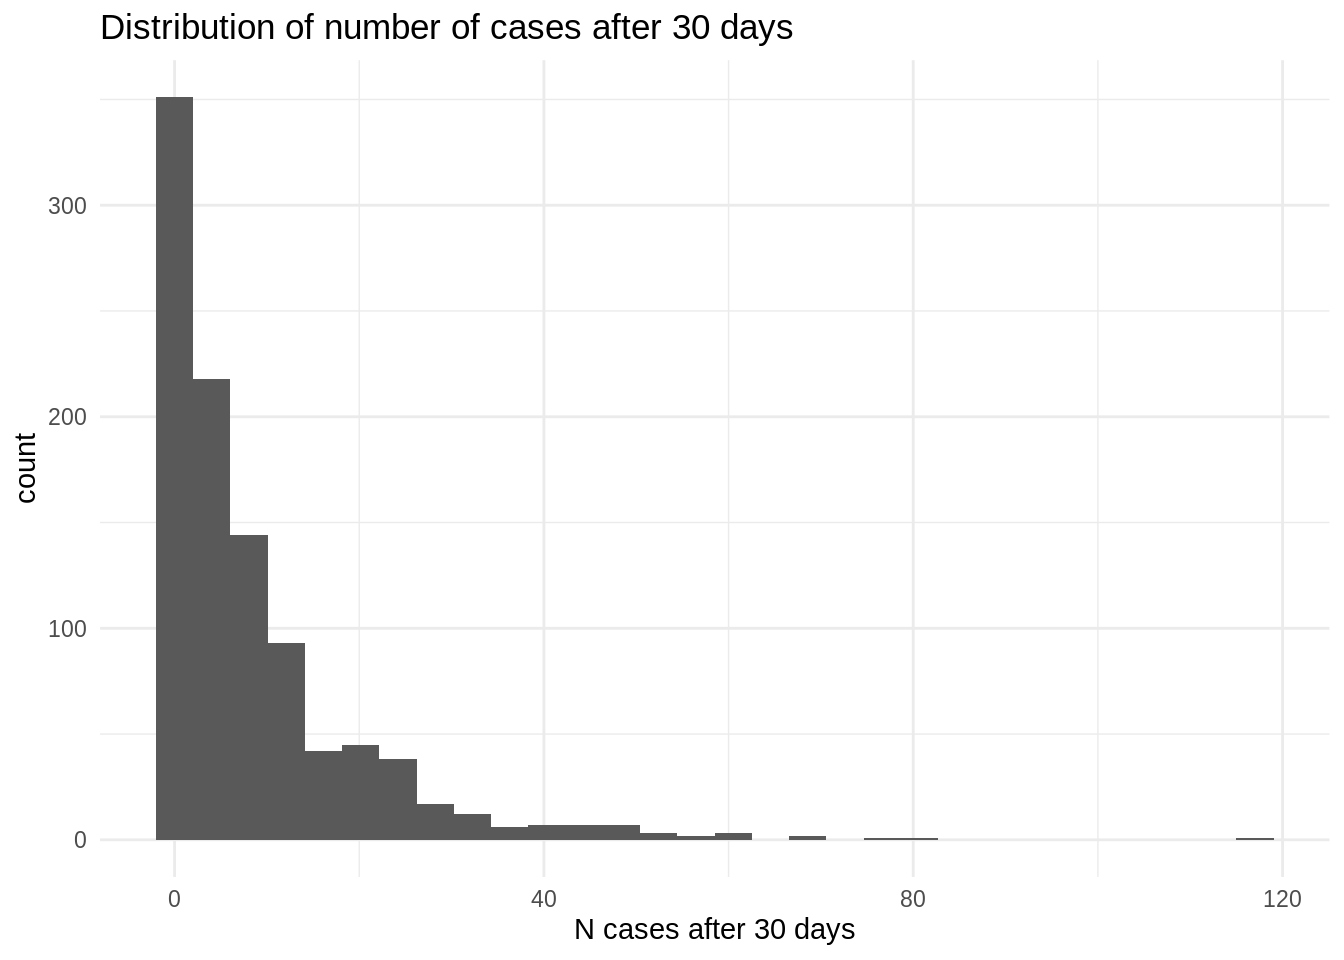
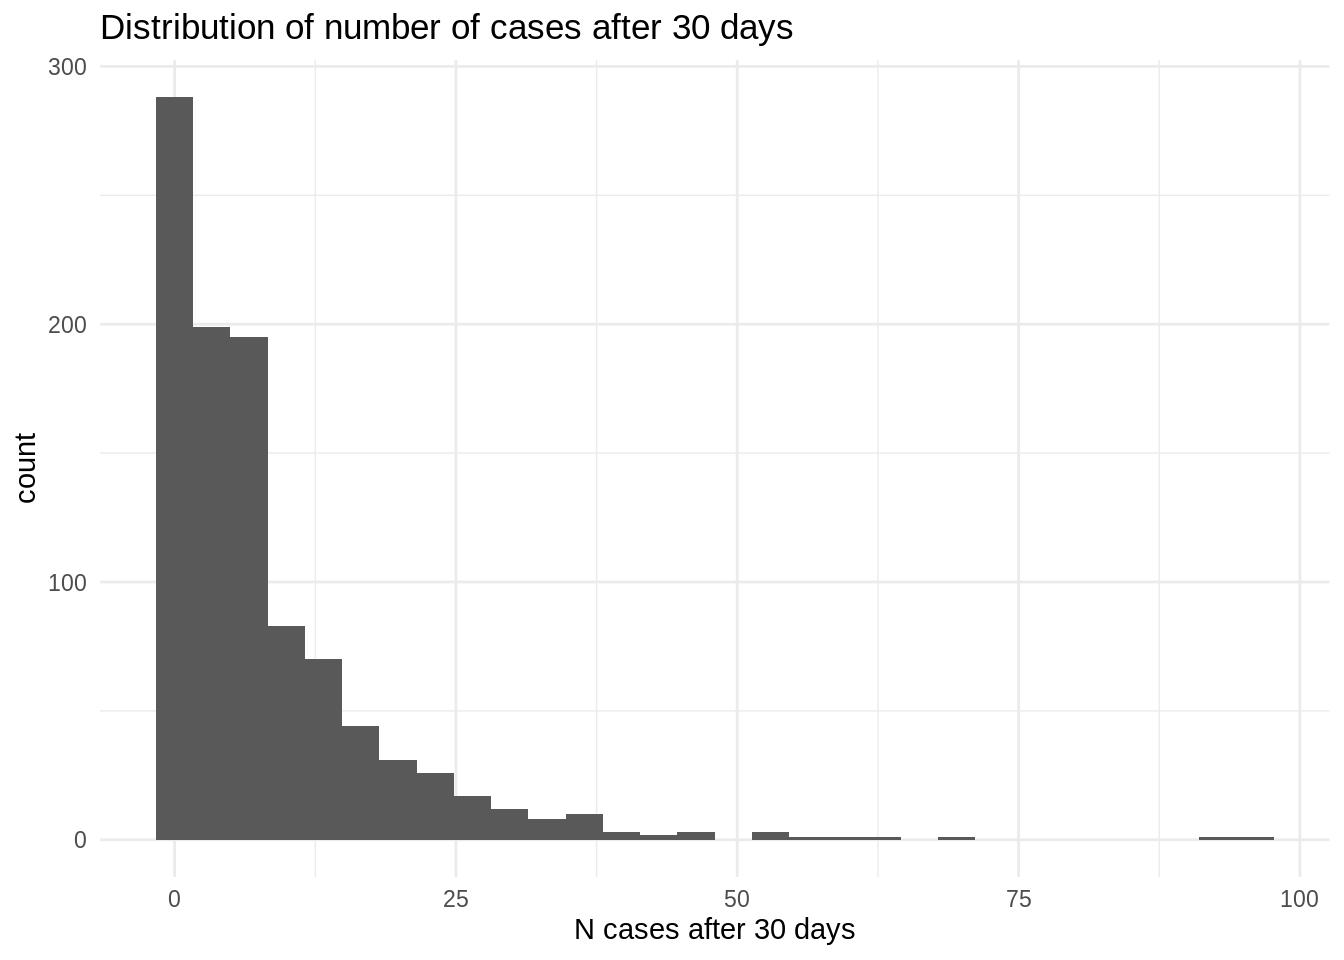
Deploy folkehelseinstituttet/spread to github.com/folkehelseinstituttet/spread.git:gh-pages

diff --git a/articles/branching_process.html b/articles/branching_process.html
@@ -48,10 +48,13 @@
   </a>
   <ul class="dropdown-menu" role="menu">
 <li>
-      <a href="../articles/including_vax.html">Including vax data</a>
+      <a href="../articles/commuter_model.html">Commuter Model</a>
     </li>
     <li>
-      <a href="../articles/commuter_model.html">Commuter Model</a>
+      <a href="../articles/including_vax.html">Vax Data for Commuter Model</a>
+    </li>
+    <li>
+      <a href="../articles/branching_process.html">Simple Branching Process Model</a>
     </li>
   </ul>
 </li>
@@ -133,7 +136,7 @@
 <a class="sourceLine" id="cb4-2" data-line-number="2"><span class="kw"><a href="https://rdrr.io/r/base/print.html">print</a></span>(<span class="kw"><a href="https://rdrr.io/r/stats/median.html">median</a></span>(summary<span class="op">$</span>cumulative[<span class="dv">30</span>,]))</a>
 <a class="sourceLine" id="cb4-3" data-line-number="3"><span class="co">#&gt; [1] 5</span></a>
 <a class="sourceLine" id="cb4-4" data-line-number="4"><span class="kw"><a href="https://rdrr.io/r/base/print.html">print</a></span>(summary<span class="op">$</span>p_no_spread)</a>
-<a class="sourceLine" id="cb4-5" data-line-number="5"><span class="co">#&gt; [1] 0.253</span></a></code></pre></div>
+<a class="sourceLine" id="cb4-5" data-line-number="5"><span class="co">#&gt; [1] 0.288</span></a></code></pre></div>
 <p>The median number of cases is around 50, with a probability of no spread is around 6%.</p>
 </div>
 <div id="estimating-parameters-via-approximate-bayesian-computation-abc" class="section level1">
@@ -165,7 +168,7 @@
 <a class="sourceLine" id="cb5-23" data-line-number="23">  )</a>
 <a class="sourceLine" id="cb5-24" data-line-number="24"><span class="kw"><a href="https://rdrr.io/r/base/print.html">print</a></span>(HDInterval<span class="op">::</span><span class="kw"><a href="https://rdrr.io/pkg/HDInterval/man/hdi.html">hdi</a></span>(r<span class="op">$</span>R0))</a>
 <a class="sourceLine" id="cb5-25" data-line-number="25"><span class="co">#&gt; lower upper </span></a>
-<a class="sourceLine" id="cb5-26" data-line-number="26"><span class="co">#&gt;  2.00  4.35 </span></a>
+<a class="sourceLine" id="cb5-26" data-line-number="26"><span class="co">#&gt;  2.05  4.35 </span></a>
 <a class="sourceLine" id="cb5-27" data-line-number="27"><span class="co">#&gt; attr(,"credMass")</span></a>
 <a class="sourceLine" id="cb5-28" data-line-number="28"><span class="co">#&gt; [1] 0.95</span></a></code></pre></div>
 </div>

diff --git a/reference/convert_blank_seiiar_with_vax.html b/reference/convert_blank_seiiar_with_vax.html
@@ -90,10 +90,13 @@ For more information, look at vignette(&quot;including_vax&quot;,&quot;spread&qu
   </a>
   <ul class="dropdown-menu" role="menu">
     <li>
-      <a href="../articles/including_vax.html">Including vax data</a>
+      <a href="../articles/commuter_model.html">Commuter Model</a>
     </li>
     <li>
-      <a href="../articles/commuter_model.html">Commuter Model</a>
+      <a href="../articles/including_vax.html">Vax Data for Commuter Model</a>
+    </li>
+    <li>
+      <a href="../articles/branching_process.html">Simple Branching Process Model</a>
     </li>
   </ul>
 </li>

diff --git a/reference/norway_seiiar_measles_noinfected_2017_b2020.html b/reference/norway_seiiar_measles_noinfected_2017_b2020.html
@@ -87,10 +87,13 @@ from 2014 to 2018 were used as the proportion of recovered people." />
   </a>
   <ul class="dropdown-menu" role="menu">
     <li>
-      <a href="../articles/including_vax.html">Including vax data</a>
+      <a href="../articles/commuter_model.html">Commuter Model</a>
     </li>
     <li>
-      <a href="../articles/commuter_model.html">Commuter Model</a>
+      <a href="../articles/including_vax.html">Vax Data for Commuter Model</a>
+    </li>
+    <li>
+      <a href="../articles/branching_process.html">Simple Branching Process Model</a>
     </li>
   </ul>
 </li>

diff --git a/reference/norway_seiiar_measles_oslo_2017_b2020.html b/reference/norway_seiiar_measles_oslo_2017_b2020.html
@@ -87,10 +87,13 @@ from 2014 to 2018 were used as the proportion of recovered people." />
   </a>
   <ul class="dropdown-menu" role="menu">
     <li>
-      <a href="../articles/including_vax.html">Including vax data</a>
+      <a href="../articles/commuter_model.html">Commuter Model</a>
     </li>
     <li>
-      <a href="../articles/commuter_model.html">Commuter Model</a>
+      <a href="../articles/including_vax.html">Vax Data for Commuter Model</a>
+    </li>
+    <li>
+      <a href="../articles/branching_process.html">Simple Branching Process Model</a>
     </li>
   </ul>
 </li>

diff --git a/reference/commuter.html b/reference/commuter.html
@@ -87,10 +87,13 @@ metapopulation model that including commuting." />
   </a>
   <ul class="dropdown-menu" role="menu">
     <li>
-      <a href="../articles/including_vax.html">Including vax data</a>
+      <a href="../articles/commuter_model.html">Commuter Model</a>
     </li>
     <li>
-      <a href="../articles/commuter_model.html">Commuter Model</a>
+      <a href="../articles/including_vax.html">Vax Data for Commuter Model</a>
+    </li>
+    <li>
+      <a href="../articles/branching_process.html">Simple Branching Process Model</a>
     </li>
   </ul>
 </li>

diff --git a/reference/branching_process.html b/reference/branching_process.html
@@ -87,10 +87,13 @@ serial_interval a distcrete object" />
   </a>
   <ul class="dropdown-menu" role="menu">
     <li>
-      <a href="../articles/including_vax.html">Including vax data</a>
+      <a href="../articles/commuter_model.html">Commuter Model</a>
     </li>
     <li>
-      <a href="../articles/commuter_model.html">Commuter Model</a>
+      <a href="../articles/including_vax.html">Vax Data for Commuter Model</a>
+    </li>
+    <li>
+      <a href="../articles/branching_process.html">Simple Branching Process Model</a>
     </li>
   </ul>
 </li>

diff --git a/reference/reexports.html b/reference/reexports.html
@@ -91,10 +91,13 @@ below to see their documentation.
   </a>
   <ul class="dropdown-menu" role="menu">
     <li>
-      <a href="../articles/including_vax.html">Including vax data</a>
+      <a href="../articles/commuter_model.html">Commuter Model</a>
     </li>
     <li>
-      <a href="../articles/commuter_model.html">Commuter Model</a>
+      <a href="../articles/including_vax.html">Vax Data for Commuter Model</a>
+    </li>
+    <li>
+      <a href="../articles/branching_process.html">Simple Branching Process Model</a>
     </li>
   </ul>
 </li>

diff --git a/articles/index.html b/articles/index.html
@@ -84,10 +84,13 @@
   </a>
   <ul class="dropdown-menu" role="menu">
     <li>
-      <a href="../articles/including_vax.html">Including vax data</a>
+      <a href="../articles/commuter_model.html">Commuter Model</a>
     </li>
     <li>
-      <a href="../articles/commuter_model.html">Commuter Model</a>
+      <a href="../articles/including_vax.html">Vax Data for Commuter Model</a>
+    </li>
+    <li>
+      <a href="../articles/branching_process.html">Simple Branching Process Model</a>
     </li>
   </ul>
 </li>

diff --git a/news/index.html b/news/index.html
@@ -84,10 +84,13 @@
   </a>
   <ul class="dropdown-menu" role="menu">
     <li>
-      <a href="../articles/including_vax.html">Including vax data</a>
+      <a href="../articles/commuter_model.html">Commuter Model</a>
     </li>
     <li>
-      <a href="../articles/commuter_model.html">Commuter Model</a>
+      <a href="../articles/including_vax.html">Vax Data for Commuter Model</a>
+    </li>
+    <li>
+      <a href="../articles/branching_process.html">Simple Branching Process Model</a>
     </li>
   </ul>
 </li>

diff --git a/reference/commuter_cpp.html b/reference/commuter_cpp.html
@@ -86,10 +86,13 @@
   </a>
   <ul class="dropdown-menu" role="menu">
     <li>
-      <a href="../articles/including_vax.html">Including vax data</a>
+      <a href="../articles/commuter_model.html">Commuter Model</a>
     </li>
     <li>
-      <a href="../articles/commuter_model.html">Commuter Model</a>
+      <a href="../articles/including_vax.html">Vax Data for Commuter Model</a>
+    </li>
+    <li>
+      <a href="../articles/branching_process.html">Simple Branching Process Model</a>
     </li>
   </ul>
 </li>

diff --git a/reference/fit_params_bp.html b/reference/fit_params_bp.html
@@ -86,10 +86,13 @@
   </a>
   <ul class="dropdown-menu" role="menu">
     <li>
-      <a href="../articles/including_vax.html">Including vax data</a>
+      <a href="../articles/commuter_model.html">Commuter Model</a>
     </li>
     <li>
-      <a href="../articles/commuter_model.html">Commuter Model</a>
+      <a href="../articles/including_vax.html">Vax Data for Commuter Model</a>
+    </li>
+    <li>
+      <a href="../articles/branching_process.html">Simple Branching Process Model</a>
     </li>
   </ul>
 </li>

diff --git a/reference/index.html b/reference/index.html
@@ -84,10 +84,13 @@
   </a>
   <ul class="dropdown-menu" role="menu">
     <li>
-      <a href="../articles/including_vax.html">Including vax data</a>
+      <a href="../articles/commuter_model.html">Commuter Model</a>
     </li>
     <li>
-      <a href="../articles/commuter_model.html">Commuter Model</a>
+      <a href="../articles/including_vax.html">Vax Data for Commuter Model</a>
+    </li>
+    <li>
+      <a href="../articles/branching_process.html">Simple Branching Process Model</a>
     </li>
   </ul>
 </li>
